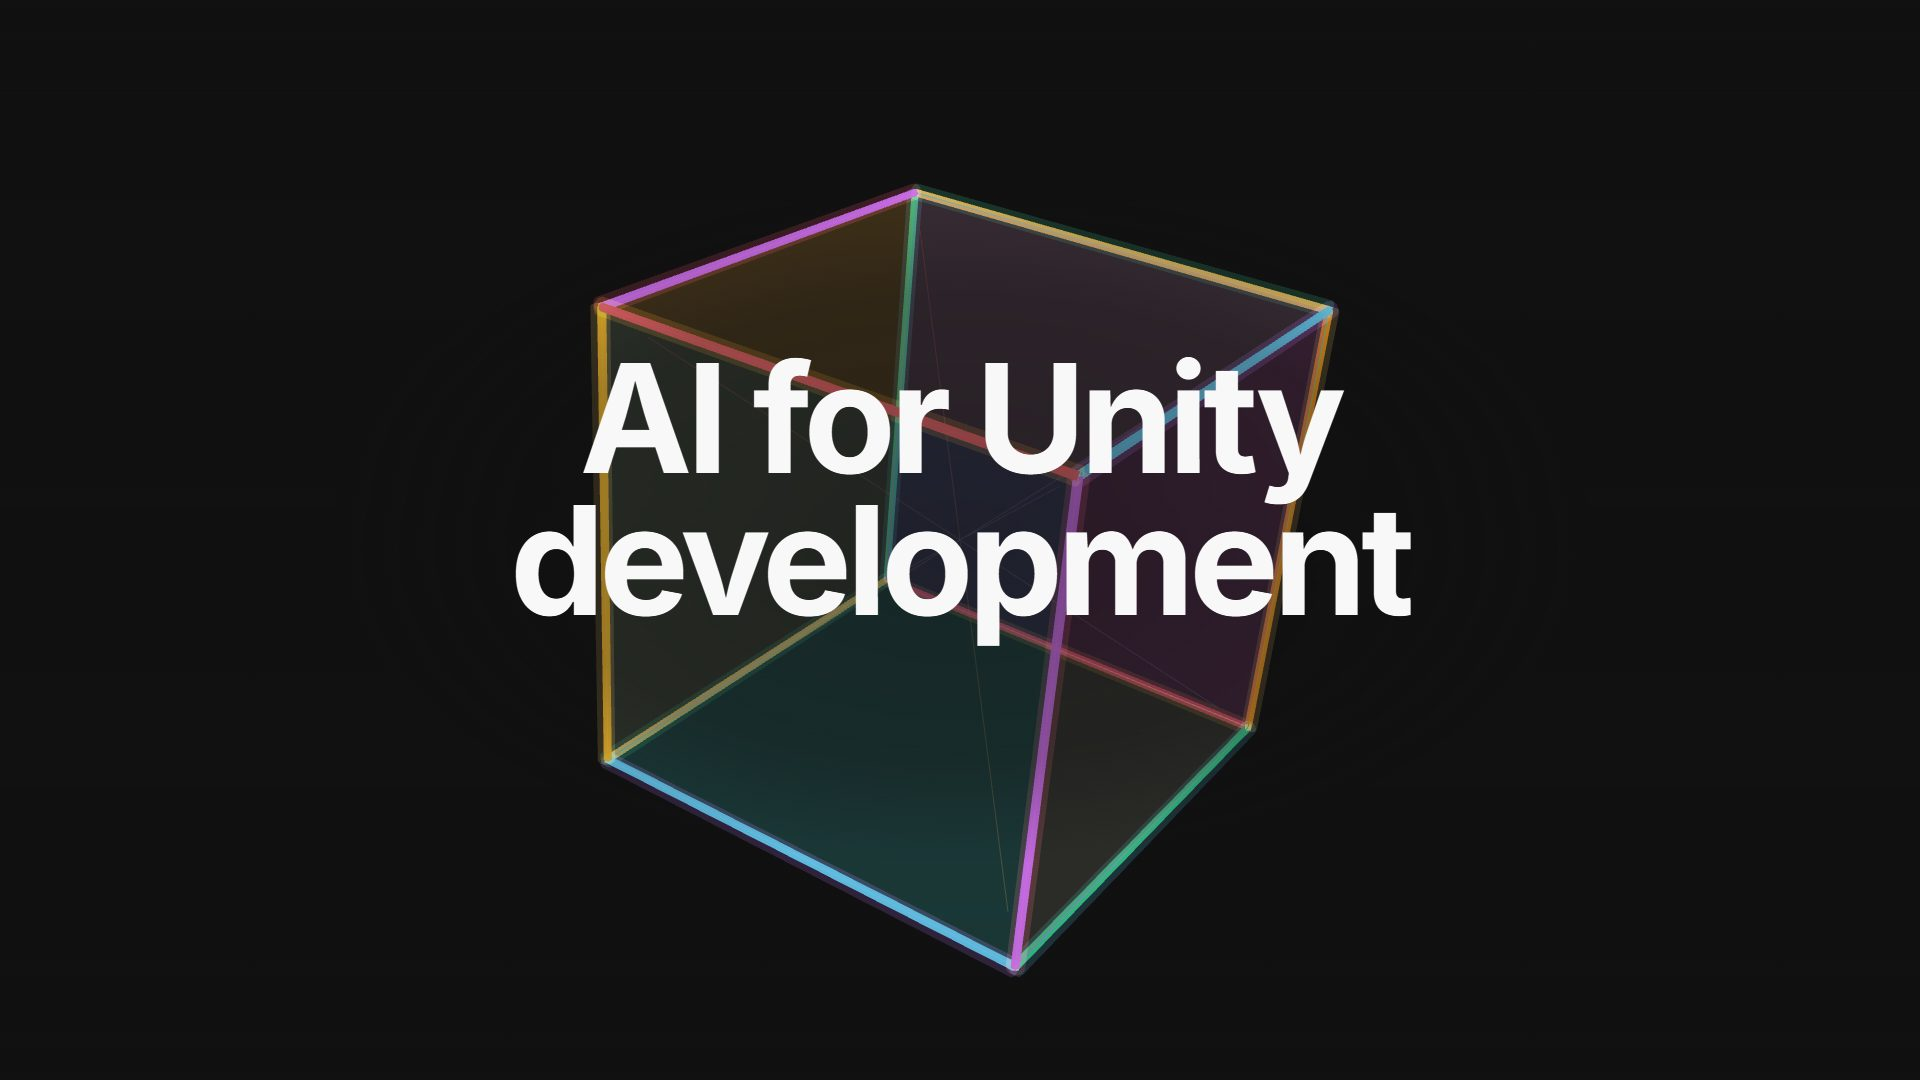
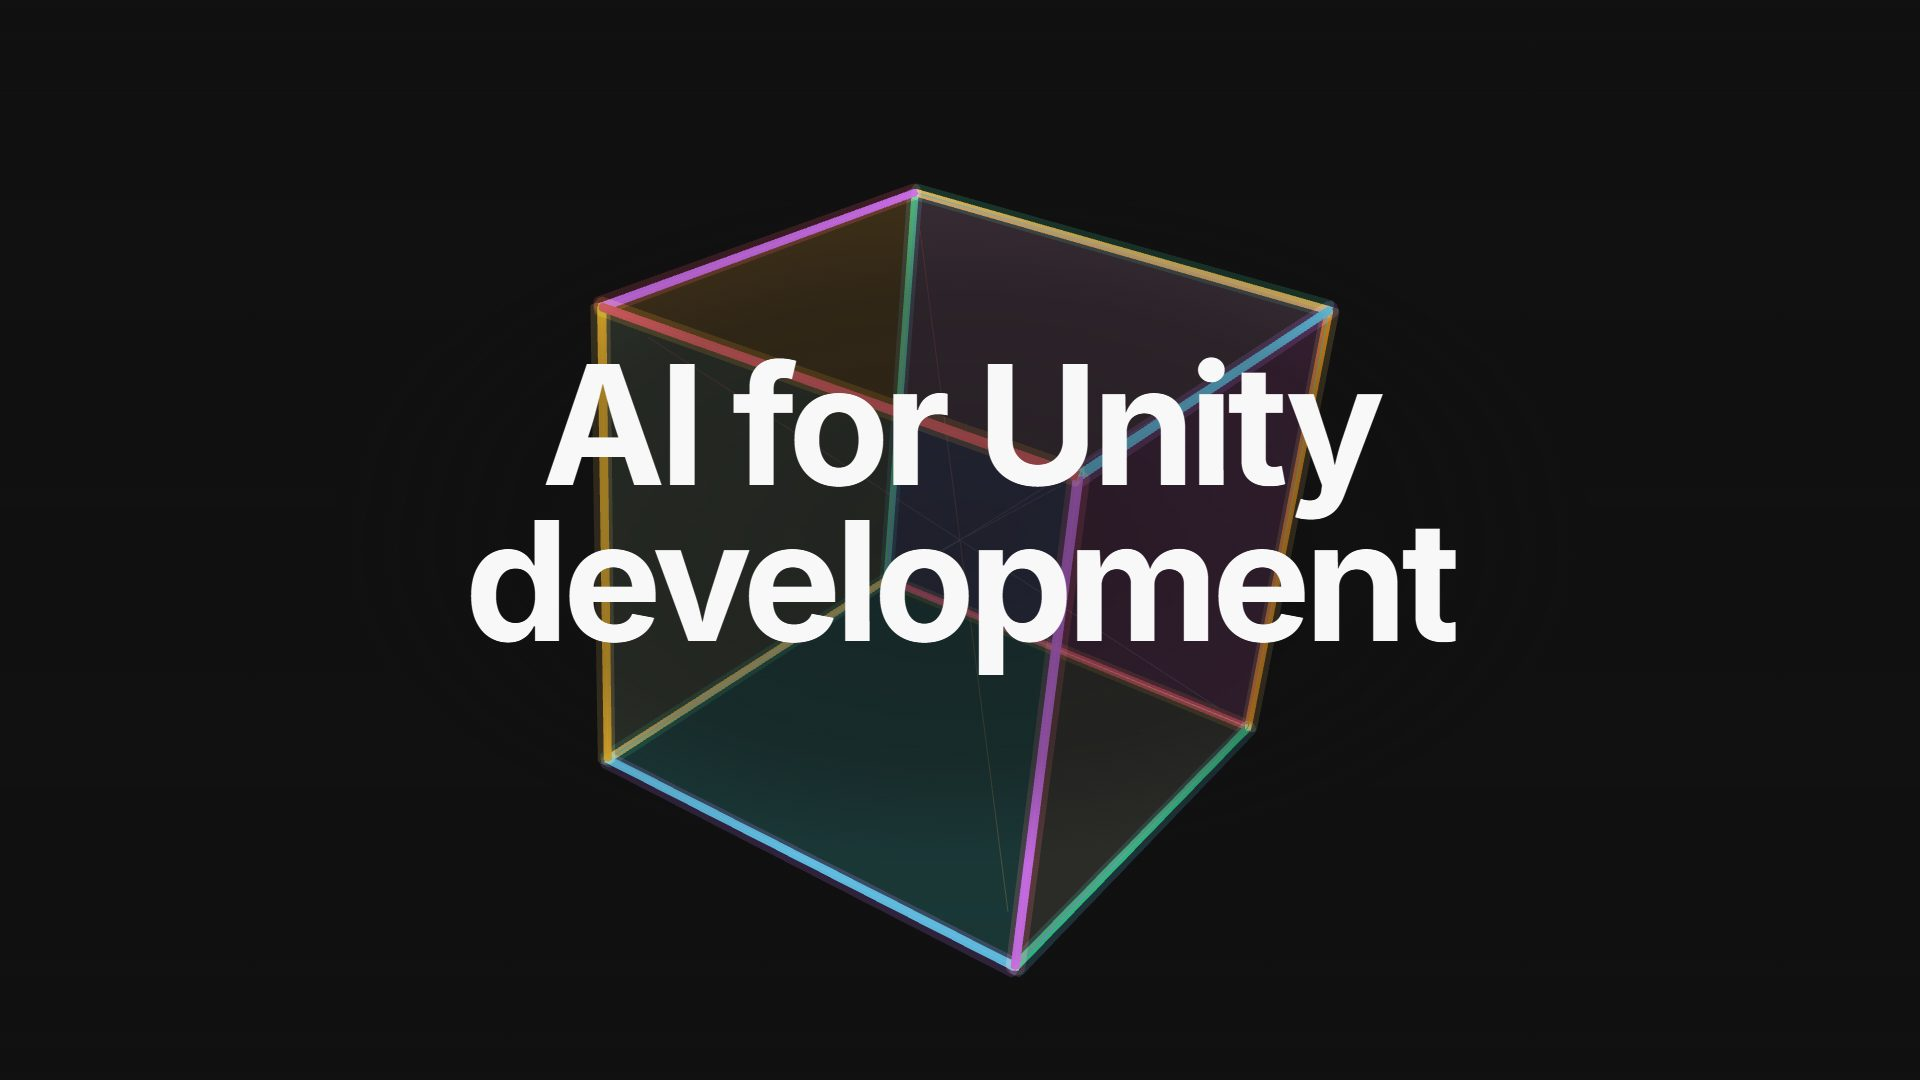
update in previews

Changed region(s): [[0.2188, 0.3361, 0.7812, 0.6417]]

diff --git a/src/cv/index.html b/src/cv/index.html
@@ -863,7 +863,7 @@
     html.preview-cover .hero h1 {
       max-width: 780px;
       margin: 0 auto;
-      font-size: clamp(64px, 7.2vw, 104px);
+      font-size: clamp(70.4px, 7.92vw, 114.4px);
       line-height: 0.98;
       letter-spacing: -0.045em;
       padding-bottom: 0.12em;

diff --git a/src/styles/deck.css b/src/styles/deck.css
@@ -146,6 +146,9 @@ body::-webkit-scrollbar {
   padding-bottom: 0.14em;
   color: var(--fg);
 }
+html.deck-preview-cover .h-hero {
+  font-size: clamp(96.8px, min(11.46vw, 15.4vh), 220px);
+}
 .slide.hero.center > .h-hero {
   position: absolute;
   top: var(--cover-title-y);
